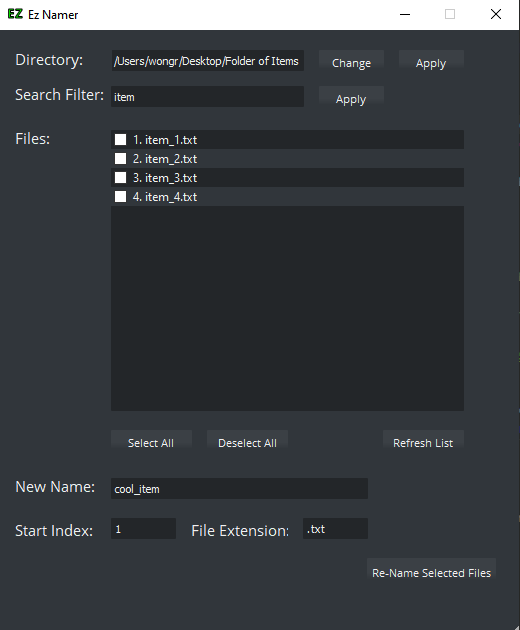
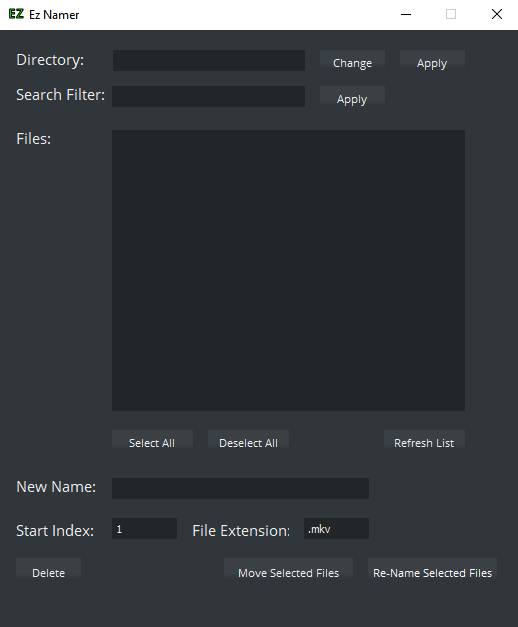
New features
- added file deletion
- added file move

diff --git a/eznamer.py b/eznamer.py
@@ -5,6 +5,7 @@
 # Written In: Python 3.7
 
 
+
 # ~~~~~ What is Eznamer? ~~~~~
 # Eznamer is a simple and intuitive bulk file renaming program. 
 # This program was built to help rename, and organize terrabytes of photos and videos. 
@@ -26,7 +27,6 @@ IN PROGRESS:
 - File Deletion
 '''
 
-
 # ~~~~~ This is just so I remember what the library functions do ~~~~~
 # shutil.copy(source, destination)
 # -> copy file at the path source to dest, both are strings.
@@ -43,8 +43,15 @@ IN PROGRESS:
 # shutil.rmtree(path) -> will delete folder and all files inside
 # -> ** Dangerous** as it's ir-reversible
 
+# SEND2TRASH MODULE COMMANDS:
+# send2trash.send2trash('filename')
+# Sends files to Recycling Bin
+# Prevent any unwanted changes by having a prompt window.
+# But im too lazy to add the prompt window lmao
 
 # py -m pip install [Package Name]
+# UI REBUILD COMMAND
+# pyuic5 -o gui_list.py gui_list.ui
 
 import os
 import sys
@@ -53,6 +60,8 @@ from PyQt5.QtWidgets import QFileDialog, QListWidget
 from PyQt5.QtCore import QFile, QTextStream
 from gui_list import Ui_MainWindow
 import breeze_resources
+import send2trash
+import shutil
 
 # CONSTANTS
 home = os.getenv("HOME")
@@ -75,6 +84,9 @@ class MyMainWindow(QtWidgets.QMainWindow):
         self.ui.btn_files_select_all.clicked.connect(self.clicked_btn_files_select_all)
         self.ui.btn_files_deselect.clicked.connect(self.clicked_btn_files_deselect)
         self.ui.btn_files_refresh.clicked.connect(self.clicked_btn_files_refresh)
+        self.ui.btn_files_move.clicked.connect(self.clicked_btn_files_move)
+        self.ui.btn_files_delete.clicked.connect(self.clicked_btn_files_delete)
+        # self.ui.btn_files_delete_undo.clicked.connect(self.clicked_btn_files_undo)
 
         # Defaults 
         self.ui.line_index.setText(DEFAULT_INDEX)
@@ -109,7 +121,7 @@ class MyMainWindow(QtWidgets.QMainWindow):
             # print(self.ui.listWidget.item(i))    
 
     '''
-    SECTION 2: LIST OF FILES IN STAGE
+    SECTION 2: Files
     '''
     # This renames all files in stage 
     def clicked_btn_files_apply(self):
@@ -153,6 +165,52 @@ class MyMainWindow(QtWidgets.QMainWindow):
 
     def clicked_btn_files_refresh(self):
         self.clicked_btn_dir_apply()
+
+    def clicked_btn_files_move(self):
+        currDir = os.getcwd()
+        print(f'Current Directory: {currDir}')
+
+        targetDir = QFileDialog.getExistingDirectory(self, "Open a folder", home, QFileDialog.ShowDirsOnly)
+        print(f'Target Directory: {targetDir}')
+
+        substr = self.ui.line_filter.text()
+        res = selectBySubStr([], substr)
+        stage = []
+
+        for i in range(self.ui.listWidget.count()):
+            # 0 = unchecked, 2 = checked, 1 = intermediate for trisStates 
+            if self.ui.listWidget.item(i).checkState() == 2:
+                # stage.append(str(self.ui.listWidget.item(i).text()))
+                stage.append(res[i])
+
+        print(f"Moving Files from {currDir} to {targetDir} ...")
+        for files in stage:
+            itemLoc = currDir + '\\' + files
+            try:
+                # print(f"Item Location: {itemLoc}")
+                # print(f"Moving Item to {targetDir}")
+                shutil.move(itemLoc, targetDir)
+            except:
+                print(f"ERROR: Moving {files} to {targetDir}. Name already exists at destination.")
+
+
+    def clicked_btn_files_delete(self):
+        substr = self.ui.line_filter.text()
+        res = selectBySubStr([], substr)
+        stage = []
+
+        for i in range(self.ui.listWidget.count()):
+            # 0 = unchecked, 2 = checked, 1 = intermediate for trisStates 
+            if self.ui.listWidget.item(i).checkState() == 2:
+                # stage.append(str(self.ui.listWidget.item(i).text()))
+                stage.append(res[i])
+
+        print("Moving Files to Recycling Bin...")
+        deleteFiles(stage)
+
+    # Undo most recent deleted set of files 
+    def clicked_btn_files_undo(self):
+        pass
 
 
     '''
@@ -219,7 +277,18 @@ def renameSingleFile(stage, newNames, ext):
     print("\n")
 
 
-
+def deleteFiles(stage):
+    num = 0
+    print("Preparing recylcing bin...")
+    for files in stage:
+        try:
+            print("Deleting '%s' from stage... " % (files))
+            send2trash.send2trash(files)
+            num += 1
+        except:
+            print("ERROR: Can't delete files")
+    print("%s Files successfully deleted." % (num))
+    print("\n")
 
 
 

diff --git a/gui_list.py b/gui_list.py
@@ -138,9 +138,23 @@ class Ui_MainWindow(object):
         font.setPointSize(8)
         self.btn_files_refresh.setFont(font)
         self.btn_files_refresh.setObjectName("btn_files_refresh")
+        self.btn_files_delete = QtWidgets.QPushButton(self.centralwidget)
+        self.btn_files_delete.setGeometry(QtCore.QRect(16, 528, 65, 29))
+        font = QtGui.QFont()
+        font.setFamily("Open Sans")
+        font.setPointSize(8)
+        self.btn_files_delete.setFont(font)
+        self.btn_files_delete.setObjectName("btn_files_delete")
+        self.btn_files_move = QtWidgets.QPushButton(self.centralwidget)
+        self.btn_files_move.setGeometry(QtCore.QRect(224, 528, 129, 29))
+        font = QtGui.QFont()
+        font.setFamily("Open Sans")
+        font.setPointSize(8)
+        self.btn_files_move.setFont(font)
+        self.btn_files_move.setObjectName("btn_files_move")
         MainWindow.setCentralWidget(self.centralwidget)
         self.menubar = QtWidgets.QMenuBar(MainWindow)
-        self.menubar.setGeometry(QtCore.QRect(0, 0, 520, 23))
+        self.menubar.setGeometry(QtCore.QRect(0, 0, 520, 21))
         self.menubar.setObjectName("menubar")
         MainWindow.setMenuBar(self.menubar)
         self.statusbar = QtWidgets.QStatusBar(MainWindow)
@@ -167,4 +181,6 @@ class Ui_MainWindow(object):
         self.btn_dir_apply.setText(_translate("MainWindow", "Apply"))
         self.btn_filter_apply.setText(_translate("MainWindow", "Apply"))
         self.btn_files_refresh.setText(_translate("MainWindow", "Refresh List"))
+        self.btn_files_delete.setText(_translate("MainWindow", "Delete"))
+        self.btn_files_move.setText(_translate("MainWindow", "Move Selected Files"))
 
